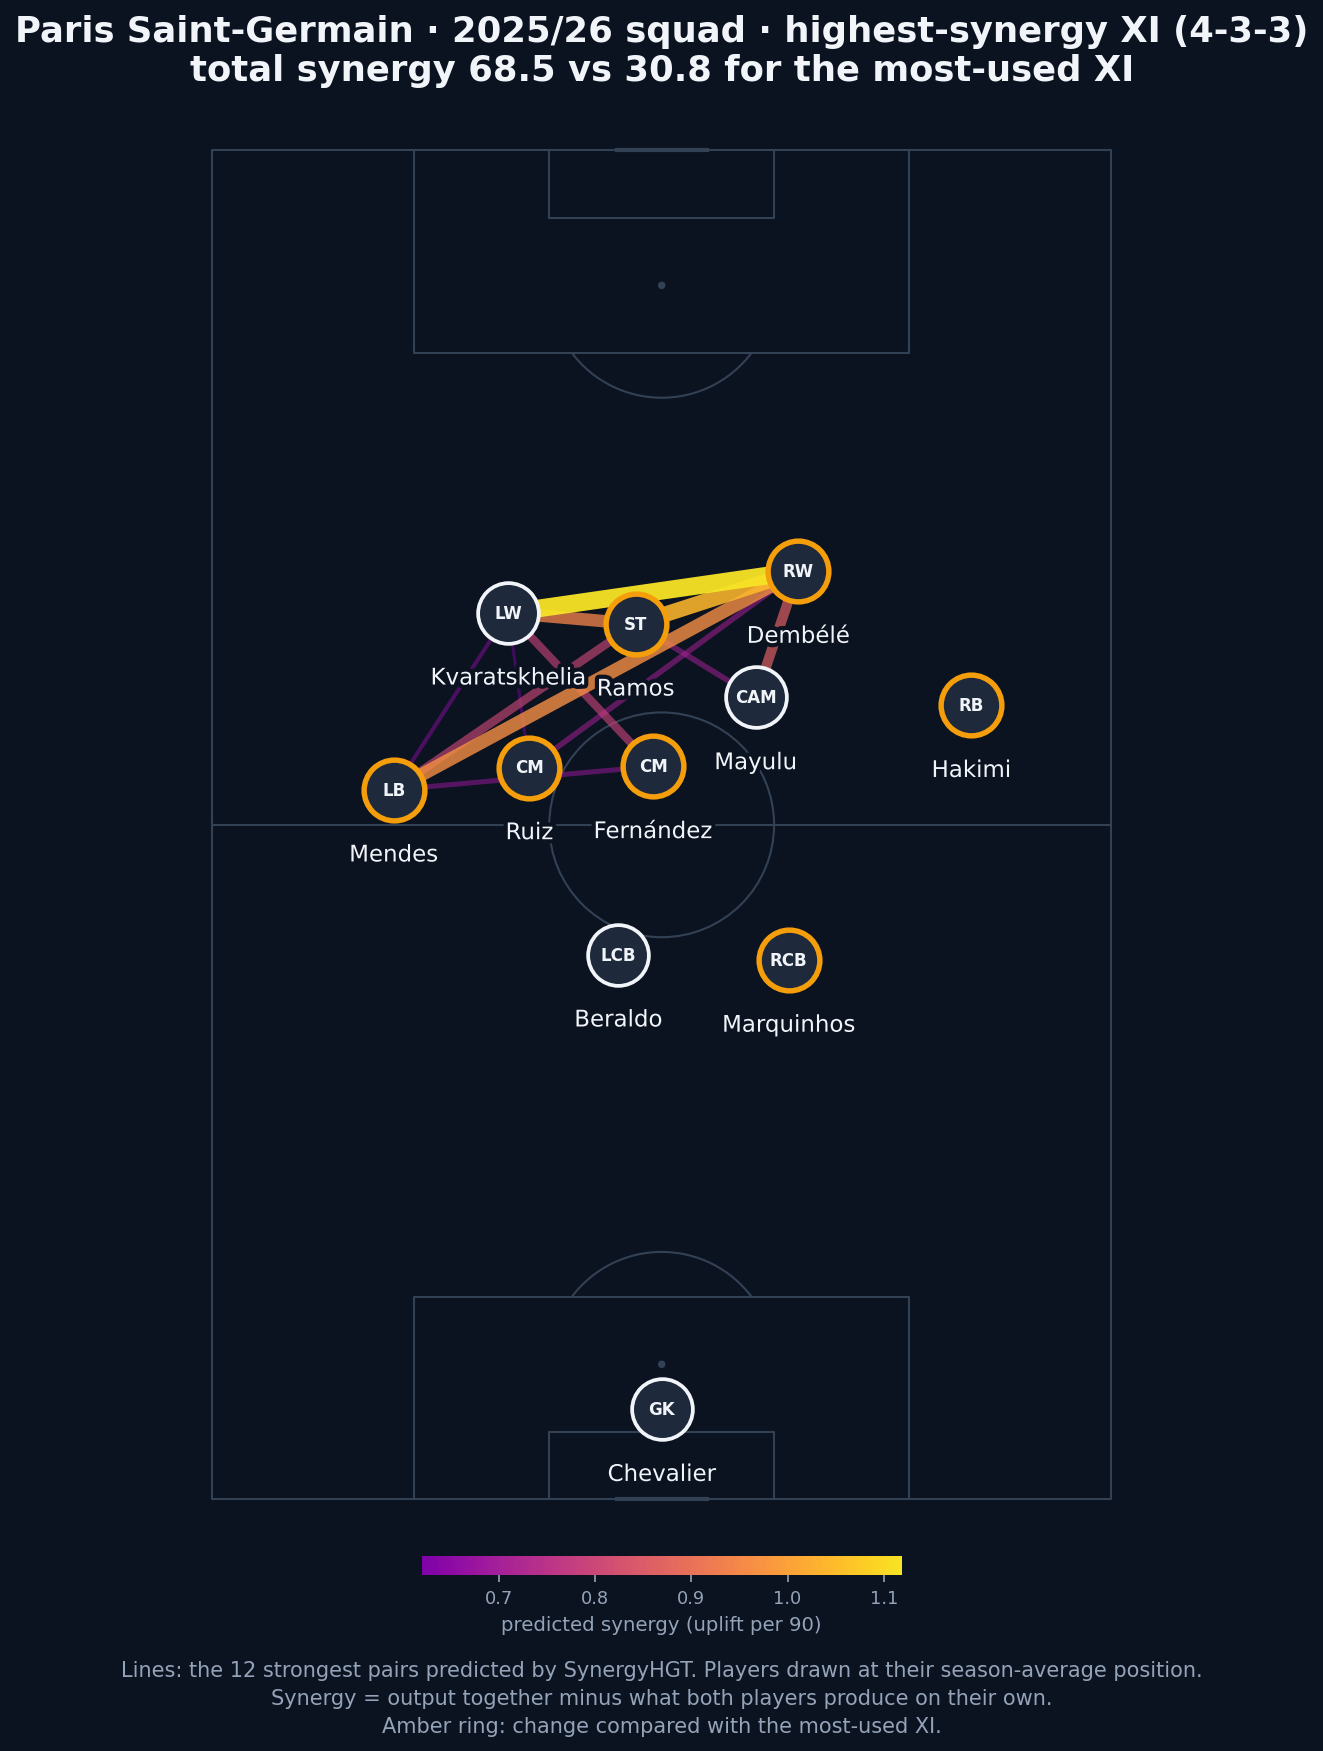
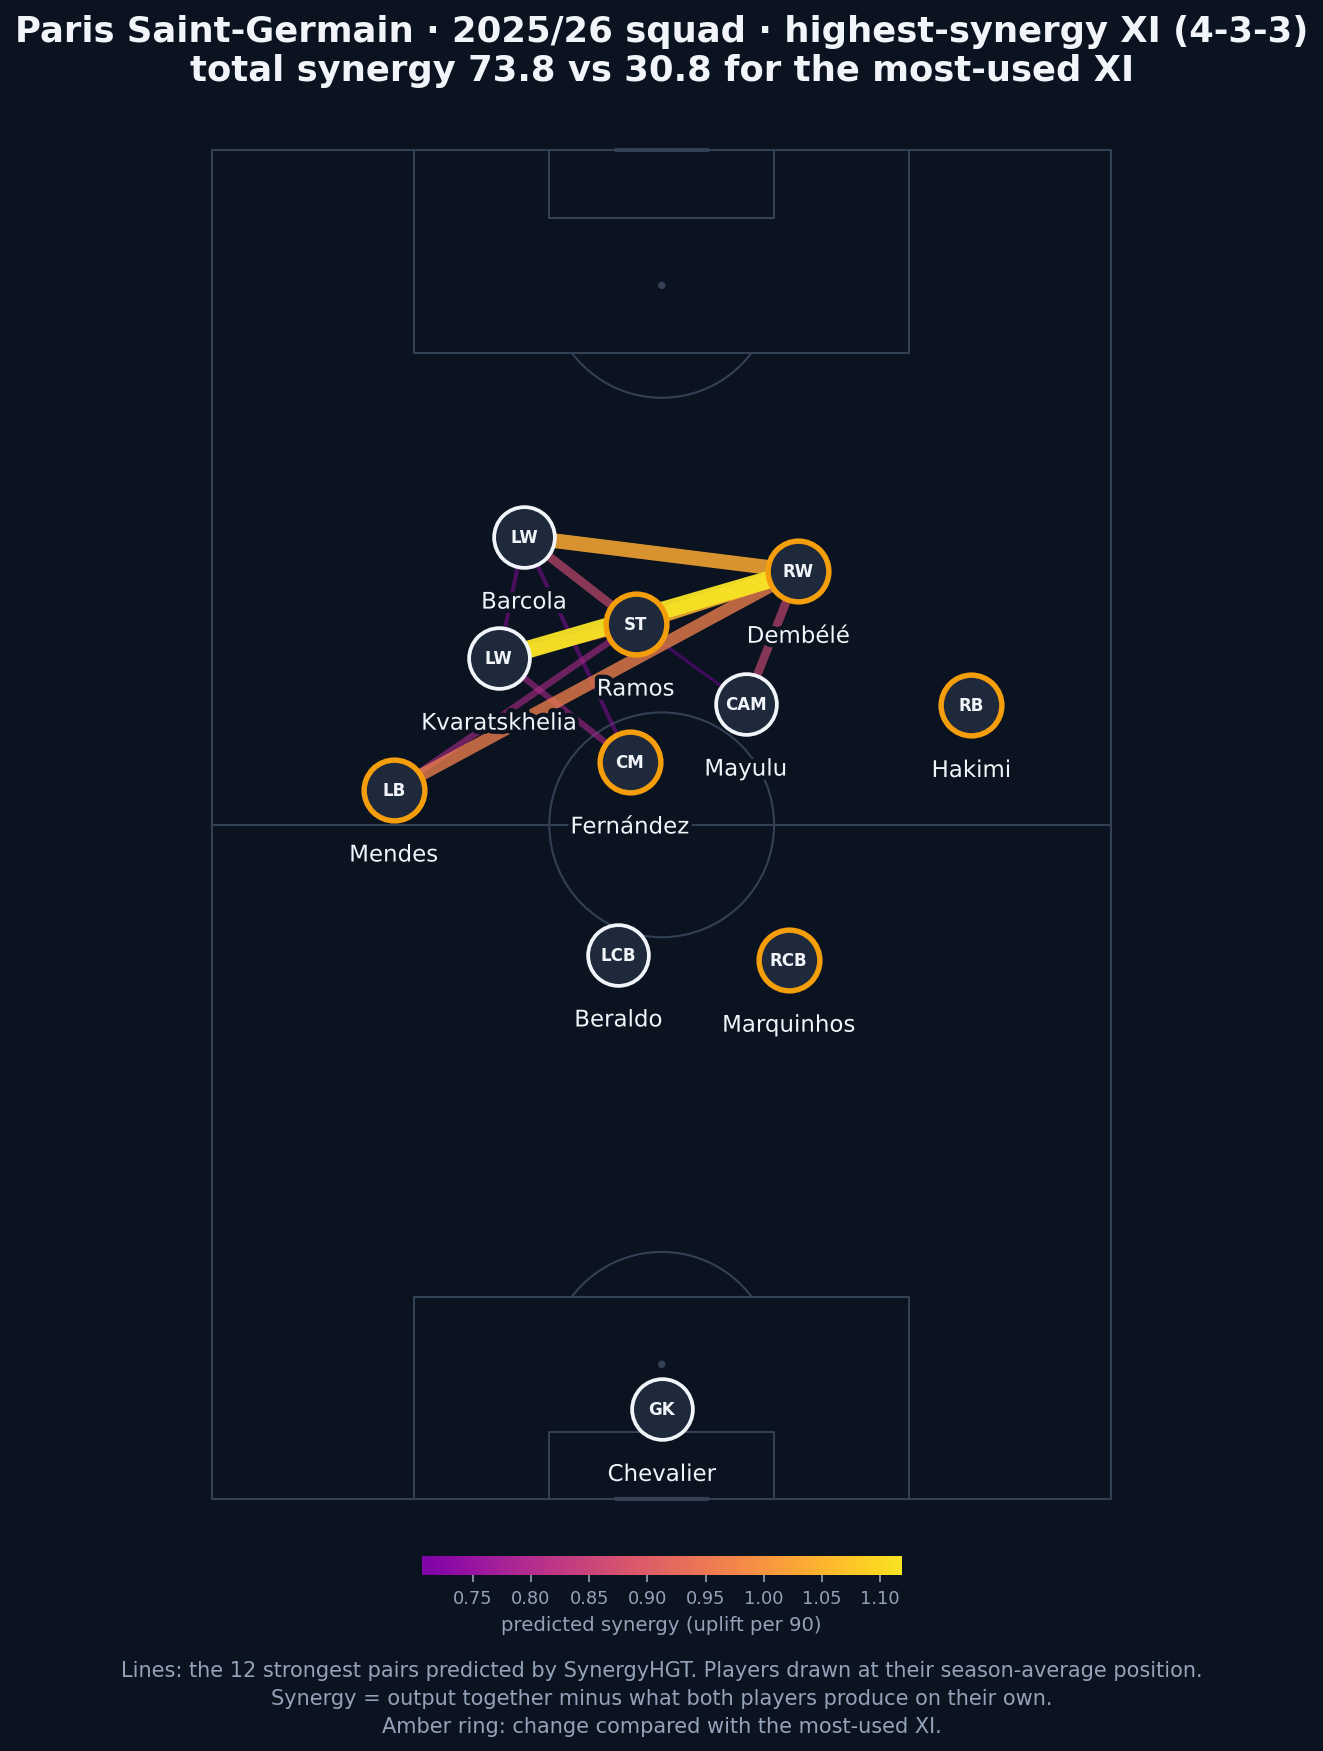
PSG 2026/27 snapshot; drop the transfer board from the README
- README club section: PSG 2025/26 (full season) and an early 2026/27
  snapshot (first three league matches), most-used vs highest-synergy
  4-3-3. Transfer board images removed.
- xi.py: the CAM slot also accepts wide players (inside forwards; 8s in
  the half-spaces get a wing label), needed for fluid sides like PSG.
  2025/26 figures regenerated with the same rule.

diff --git a/src/graph/xi.py b/src/graph/xi.py
@@ -23,7 +23,9 @@ from src.graph.positions import FORMATIONS, coordinate_to_position
 COMPATIBLE = {
     "GK": {"GK"}, "RB": {"RB", "RWB"}, "LB": {"LB", "LWB"}, "RWB": {"RWB", "RB"}, "LWB": {"LWB", "LB"},
     "RCB": {"RCB", "LCB"}, "LCB": {"LCB", "RCB"},
-    "CDM": {"CDM", "CM"}, "CM": {"CM", "CDM", "CAM"}, "CAM": {"CAM", "CM"},
+    # CAM also takes wide players: inside forwards play as a 10, and left/right-sided 8s get a
+    # wing label from the coordinate rule (fluid sides such as PSG need this)
+    "CDM": {"CDM", "CM"}, "CM": {"CM", "CDM", "CAM"}, "CAM": {"CAM", "CM", "LW", "RW"},
     "RW": {"RW", "LW"}, "LW": {"LW", "RW"}, "ST": {"ST"},
 }
 

diff --git a/README.md b/README.md
@@ -9,7 +9,7 @@ combine. The learned player embeddings power three scouting tasks:
 - **Pair synergy** — how far above expectation two players perform when they share the pitch
 - **Squad completion** — the best candidates for an empty slot given the other ten players
 - **Similar players** — nearest neighbours in embedding space for recruitment shortlists
-- **Club report** — weak links of an XI, transfer candidates and the squad's highest-synergy XI
+- **Club report** — strongest pairs of an XI and the squad's highest-synergy XI
 
 <p align="center">
   <img src="docs/club/psg_xi_best_synergy.png" width="560"
@@ -89,34 +89,37 @@ r ≈ 0.2), and a separately trained model reaches ρ ≈ 0.03. Conceding is the
 players and the opponent; it is not used anywhere (details: experiment log, round 5).
 Goalkeepers are therefore not assessed.
 
-## Club report: Paris Saint-Germain 2025/26
+## Club report: Paris Saint-Germain
 
-`src/graph/club_report.py` applies the model to one club: who in the XI connects poorly, who
-outside the club would fit better, and which combination of the current squad the model rates
-highest.
+`src/graph/club_report.py` applies the model to one club: the most-used XI with its strongest
+predicted pairs, and the combination of the current squad that the model rates highest (it
+also lists weak links and outside candidates per position).
+
+### 2025/26 — full season
 
 | Most-used Ligue 1 XI (heavy rotation) | Highest-synergy 4-3-3 from the same squad |
 |---|---|
-| <img src="docs/club/psg_xi_most_used.png" width="400" alt="PSG most-used XI with three centre-backs and no right-back"> | <img src="docs/club/psg_xi_best_synergy.png" width="400" alt="PSG highest-synergy 4-3-3"> |
+| <img src="docs/club/psg_xi_most_used.png" width="400" alt="PSG 2025/26 most-used XI with three centre-backs and no right-back"> | <img src="docs/club/psg_xi_best_synergy.png" width="400" alt="PSG 2025/26 highest-synergy 4-3-3"> |
 
 PSG rotated heavily in the league in 2025/26: Hakimi, João Neves and Dembélé started only
 11–15 league matches, so the most-used XI is no real line-up. Searching the squad for the
 4-3-3 with the highest summed pair synergy (players with ≥ 450 minutes), the model brings back
-Hakimi, Marquinhos, Nuno Mendes, Fabián Ruiz and Dembélé without being told who the regulars
-are — and rates the result at more than twice the most-used XI.
+Hakimi, Marquinhos, Nuno Mendes and Dembélé without being told who the regulars are — and
+rates the result at more than twice the most-used XI.
 
-![Transfer board](docs/club/psg_transfer_board.png)
+### 2026/27 — first three league matches
 
-The transfer board takes the four weakest positions of the XI. **Need** combines two
-percentiles among all ≥ 900-minute players of the position in nine leagues: synergy (fit with
-the other ten minus fit with a random regular, so players who score high with everyone do not
-win automatically) and performance (match rating relative to the player's own league and
-position, because raw ratings are not comparable across leagues). Best fits are the
-candidates with the highest synergy among those at least median in performance and ≤ 32 years
-old; the value pick is ≤ €15M and ≤ 27. Club, age and market value are as of September 2026.
+| Most-used XI so far | Highest-synergy 4-3-3 |
+|---|---|
+| <img src="docs/club/psg2627_xi_most_used.png" width="400" alt="PSG 2026/27 most-used XI after three matches"> | <img src="docs/club/psg2627_xi_best_synergy.png" width="400" alt="PSG 2026/27 highest-synergy 4-3-3"> |
 
-Read it as a shortlist generator, not a verdict: it sees attacking synergy only, knows nothing
-about wages, availability or tactics, and does not separate rivals from realistic targets.
+The same 2025/26 model applied to this season's squad (players with ≥ 60 minutes). Three
+matches are a thin base: average positions and roles come from very few games, and PSG's
+fluid, transition-heavy play blurs them further — Zaïre-Emery appears in the back line, Fabián
+Ruiz on the left wing. Read it as an early snapshot, to be refreshed as the season goes on.
+
+All of this sees attacking synergy only and knows nothing about tactics, fitness or the
+opponent; it ranks combinations, it does not pick teams.
 
 ## Model
 
@@ -184,6 +187,7 @@ uvicorn src.api.main:app --reload
 python -m docs.gen_model_figs     # refresh figures
 python -m src.graph.evaluate_temporal --train 2025-2026 --test 2026-2027   # out-of-season test
 python -m src.graph.club_report "Paris Saint-Germain" --formation 4-3-3 --min-minutes 450
+python -m src.graph.club_report "Paris Saint-Germain" --lineup-season 2026-2027 --formation 4-3-3 --min-minutes 60
 python -m pytest tests
 ```
 
